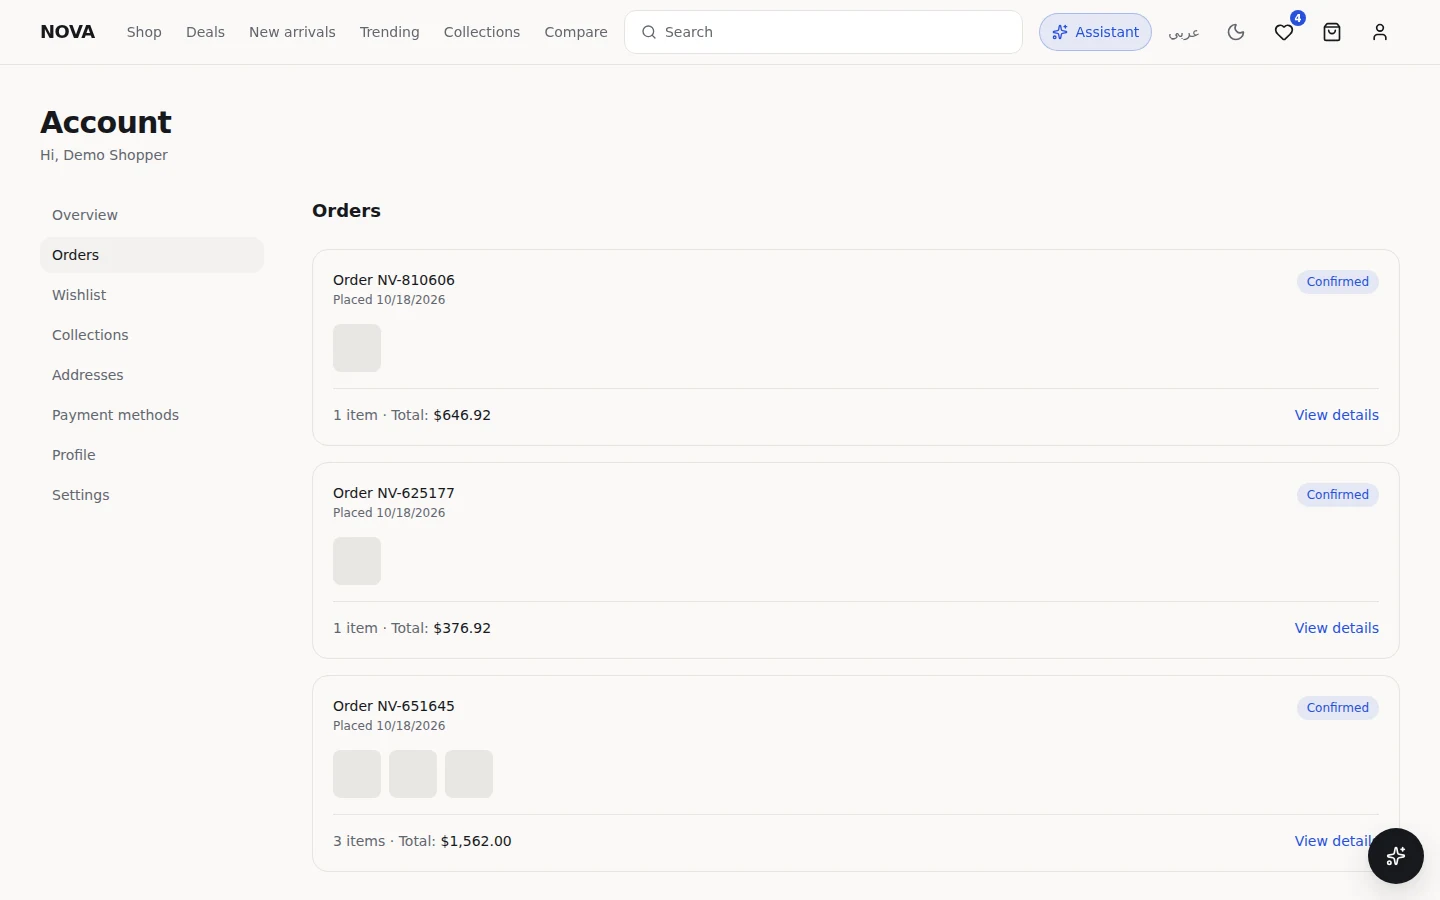
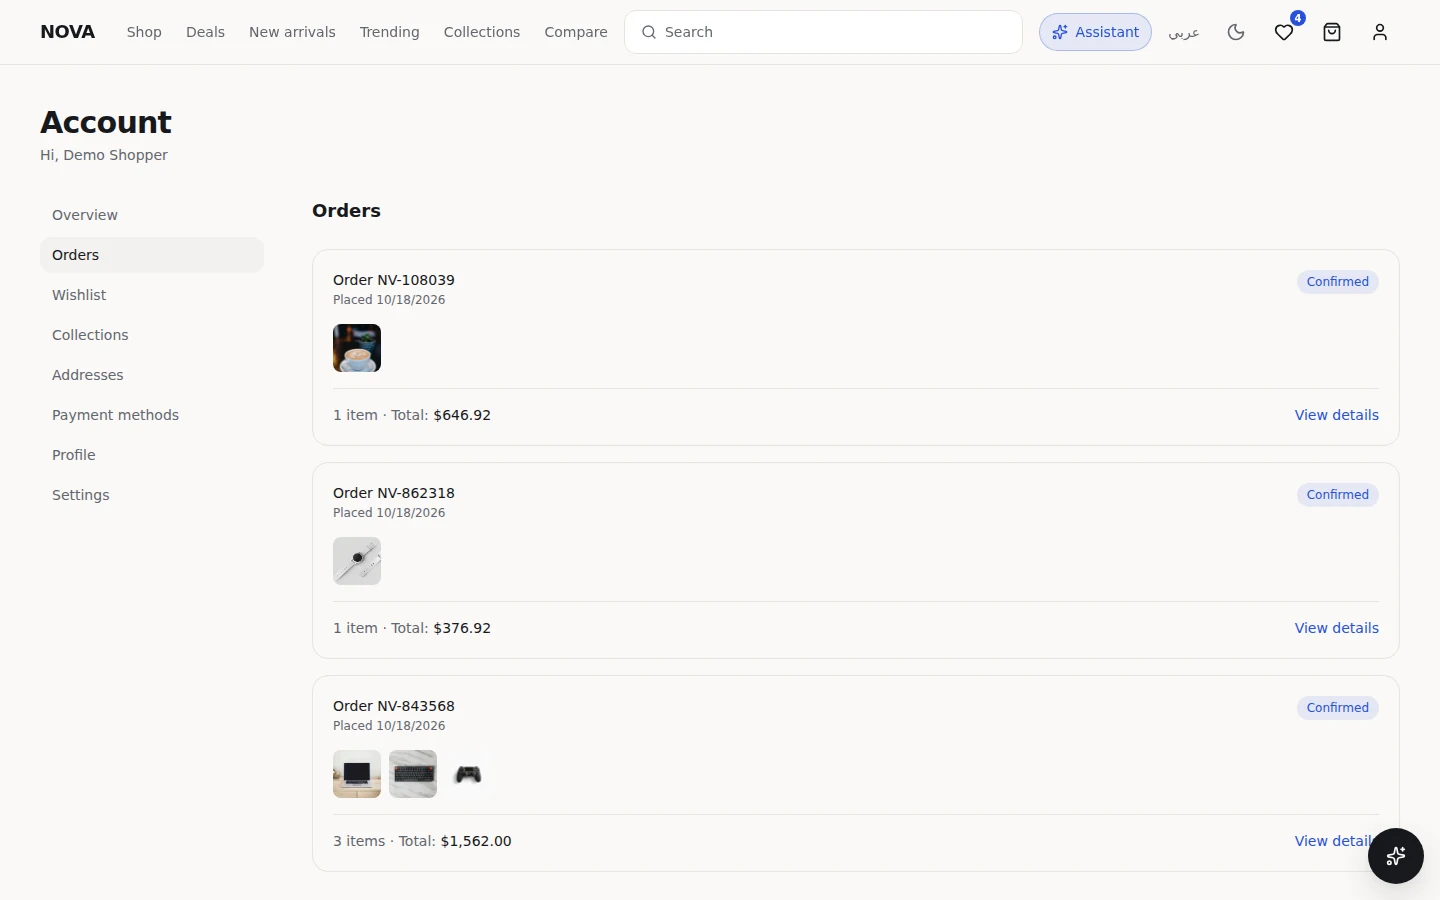
Update NOVA Market screenshots with fresh captures from local assets

diff --git a/src/data/content.ts b/src/data/content.ts
@@ -202,7 +202,7 @@ export const projects: Project[] = [
     githubUrl: 'https://github.com/Zein-Alkhnaisee/nova-market',
     liveUrl: 'https://nova-market11.netlify.app',
     galleryNote:
-      'NOVA Market is a frontend-only demo: product data, accounts, payments and the shopping assistant are simulated in the browser. These screenshots were captured from the app running locally. Neutral placeholders stand in for the product photos, which normally load from an external image host.',
+      'NOVA Market is a frontend-only demo: product data, accounts, payments and the shopping assistant are simulated in the browser. These screenshots were captured from the app running locally.',
     gallery: [
       { src: "/images/projects/nova-shop.webp", title: "Shop", caption: "Product listing with category navigation, filters and sorting, and wishlist, compare and add-to-cart actions on each product.", group: "Storefront", width: 1440, height: 900 },
       { src: "/images/projects/nova-product.webp", title: "Product page", caption: "Product detail with price, rating, stock status, an image gallery and the Build your own configurator.", group: "Storefront", width: 1440, height: 900 },
